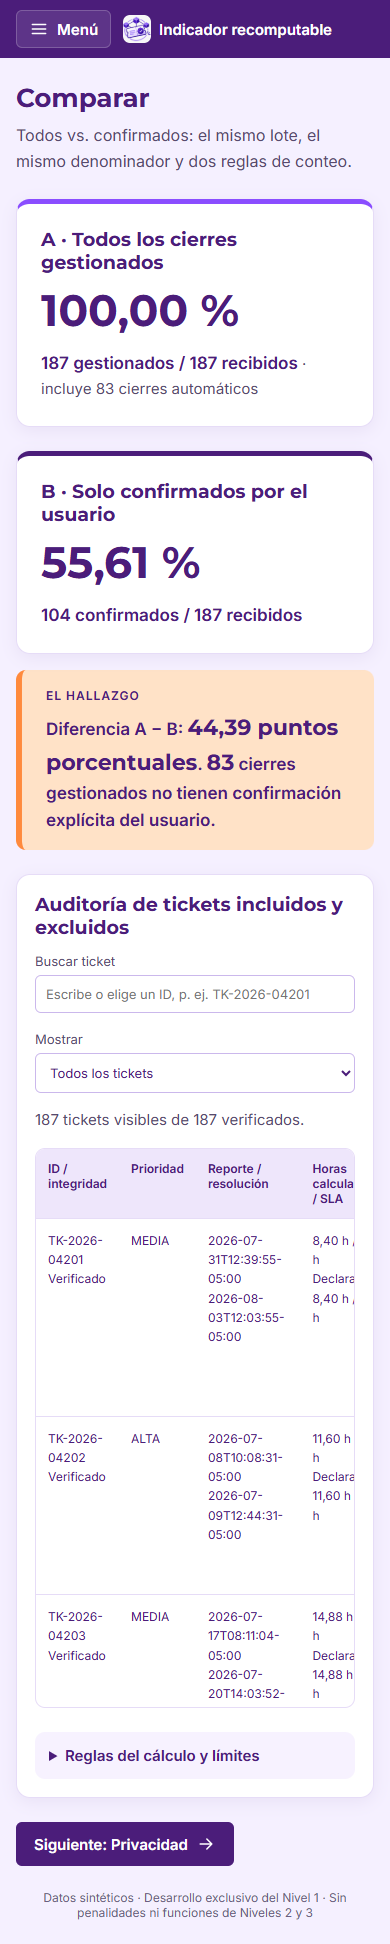
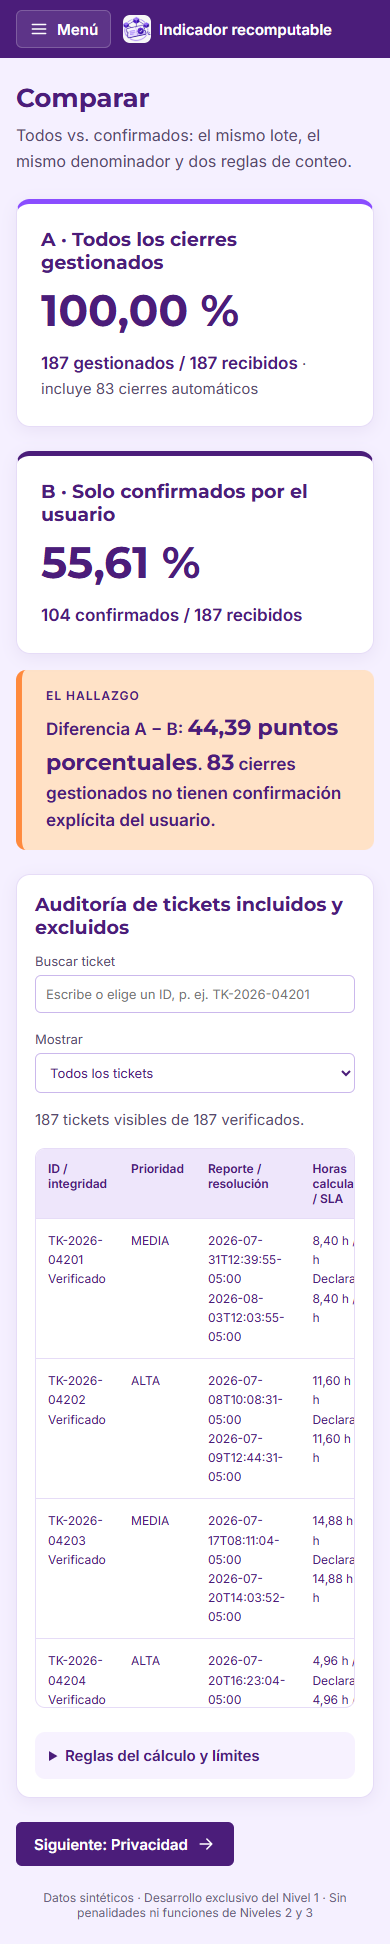
Fase 3B (ajustes 2): cada botón de Privacidad con su propio resultado; visto en «Cuenta en B»
- Privacidad: «Consultar contrato y transacción» muestra la transacción y «Lo que sí hay
  en la cadena», con la hora de la lectura; «Buscar datos personales» muestra solo el
  veredicto y la búsqueda. Ningún botón queda sin efecto visible.
- Comparar: la columna «Trazabilidad A y B» pasa a «Cuenta en B», con un visto o una raya;
  el motivo queda en el texto emergente. El filtro «Mostrar» no cambia.
- Auditoría en nivel1-v5-auditoria: 1, 2, 4 y 5 APROBADO; 3 aprobado en automático.

diff --git a/src/index.html b/src/index.html
@@ -173,7 +173,7 @@
     <h2>Auditoría de tickets incluidos y excluidos</h2>
     <div class="inputs"><label>Buscar ticket<input id="search" type="search" list="ticketIds" placeholder="Escribe o elige un ID, p. ej. TK-2026-04201"></label><datalist id="ticketIds"></datalist><label>Mostrar<select id="filter"><option value="all">Todos los tickets</option><option value="a">Los que cuentan en A (todos los cierres)</option><option value="notA">Los que no cuentan en A</option><option value="b">Los que cuentan en B (confirmados por el usuario)</option><option value="notB">Los que no cuentan en B (sin confirmación del usuario)</option><option value="sla">Los que tienen diferencias en el SLA</option></select></label></div>
     <p id="tableCount"></p>
-    <div class="tablewrap"><table><thead><tr><th>ID / integridad</th><th>Prioridad</th><th>Reporte / resolución</th><th>Horas calculadas / SLA</th><th>Cumplimiento</th><th>Cierre / confirmación</th><th>Trazabilidad A y B</th></tr></thead><tbody id="tickets"></tbody></table></div>
+    <div class="tablewrap"><table><thead><tr><th>ID / integridad</th><th>Prioridad</th><th>Reporte / resolución</th><th>Horas calculadas / SLA</th><th>Cumplimiento</th><th>Cierre / confirmación</th><th>Cuenta en B</th></tr></thead><tbody id="tickets"></tbody></table></div>
     <details><summary>Reglas del cálculo y límites</summary><div id="policy" class="rules"></div><p>Un cierre automático cuenta como gestionado en A, pero no demuestra una solución confirmada. El cumplimiento de SLA se audita por separado: incumplir el plazo no elimina un cierre del indicador de gestión.</p><p>Las horas se calculan de lunes a viernes entre 08:00 y 17:00 en UTC-05:00. Las horas declaradas se comparan con una tolerancia de ±0,02 h para absorber el redondeo a dos decimales. El motor descuenta los feriados configurados en src/calendar.mjs. El caso no entrega calendario oficial: se usa el supuesto explícito de cero feriados adicionales. Cambiarlo exige una nueva instancia y un nuevo sello.</p></details>
   </div>
   <a class="next" href="#/privacidad" data-next="comparar" hidden>Siguiente: Privacidad <svg class="icon"><use href="#i-arrow"/></svg></a>
@@ -188,6 +188,7 @@
     <div class="actions"><button id="inspect" class="secondary">Consultar contrato y transacción</button><button id="searchPersonal">Buscar datos personales en la cadena</button></div>
     <div id="personal" aria-live="polite"></div>
     <div id="privacy" class="factbox"><p class="small">Pendiente de consulta real.</p></div>
+    <div id="chainData" class="factbox"></div>
     <p id="explorer" class="explorer"></p>
     <details><summary>Ver calldata, evento y almacenamiento consultados</summary><div id="onchain" class="factbox"><p class="small">Sin consulta.</p></div></details>
     <p>Un hash demuestra que un archivo coincide con lo sellado; no demuestra que sus datos fueran verdaderos antes del sellado.</p>

diff --git a/src/style.css b/src/style.css
@@ -470,6 +470,9 @@ th { text-align: left; background: #eee6fb; position: sticky; top: 0; }
 td, th { padding: 12px; border-bottom: 1px solid var(--border); vertical-align: top; }
 td { line-height: 1.6; }
 table.summary td.num { font-family: var(--font-display); font-size: 18px; font-weight: 700; white-space: nowrap; }
+/* Columna «Cuenta en B»: un visto si el ticket cuenta en B, una raya si no. */
+td.inb { text-align: center; vertical-align: middle; font-size: 18px; font-weight: 700; color: var(--muted); }
+td.inb .icon { width: 26px; height: 26px; stroke-width: 2.6; color: var(--ink); }
 tr.flip td { background: var(--cream); font-weight: 600; }
 
 /* ---------- Recalcular ---------- */

diff --git a/docs/AUDITORIA.md b/docs/AUDITORIA.md
@@ -1,6 +1,6 @@
 # Auditoría Nivel 1 — Reto 03
 
-Ejecución UTC: 2026-11-12T04:49:36.456Z → 2026-11-12T04:50:29.433Z. Zona de presentación: America/Guayaquil.
+Ejecución UTC: 2026-11-12T05:24:13.403Z → 2026-11-12T05:25:02.128Z. Zona de presentación: America/Guayaquil.
 
 Resultado: **NIVEL 1 NO DECLARADO COMPLETO**.
 
